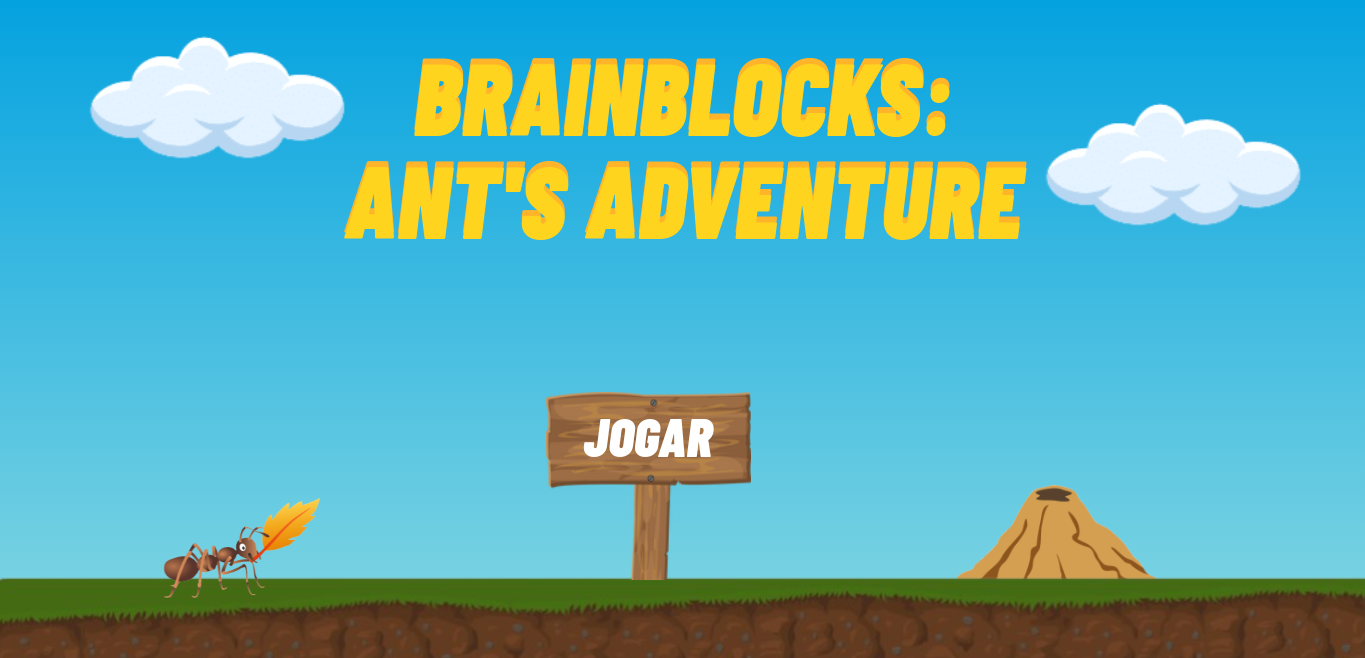
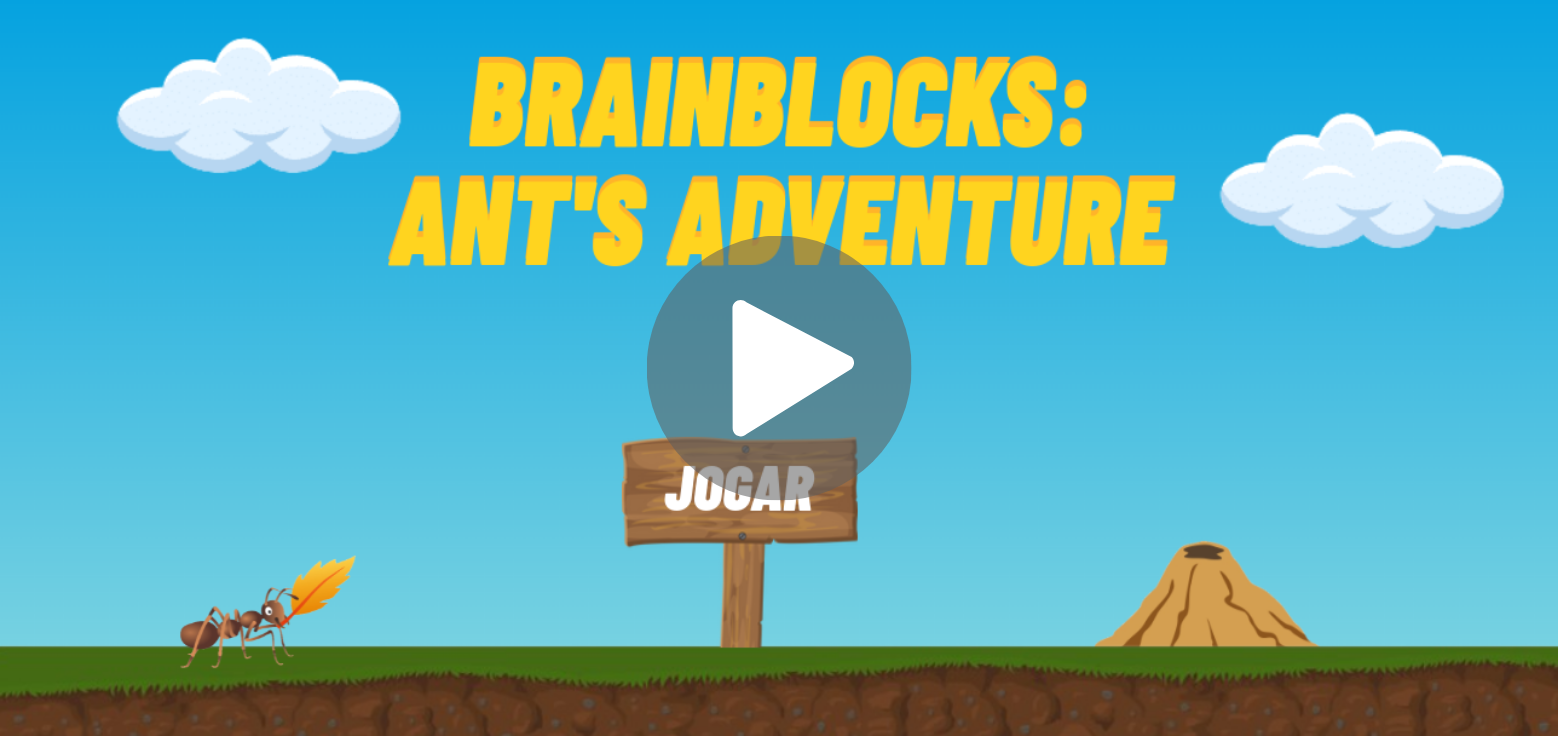
refactor: vídeo de demonstração para o navegador

diff --git a/README.md b/README.md
@@ -4,7 +4,7 @@
 
 Este projeto foi apresentado na 12ª edição do Campus Mobile, e consiste em um jogo educativo projetado para ensinar conceitos de lógica computacional por meio de programação em blocos, alinhando-se às competências do eixo de Pensamento Computacional no Complemento à BNCC. Os usuários são desafiados a auxiliar uma formiga a alcançar o formigueiro, construindo o caminho através de blocos de programação que incluem comandos como início, fim, avançar, coletar, virar à direita, além de instruções condicionais e de repetição para fases mais avançadas. Cada fase apresenta desafios específicos, como a coleta máxima de folhas ou a passagem pelo número mínimo de blocos. Esses desafios são contextualizados, proporcionando motivação ao usuário, como a formiga estar perdida ou procurando alimento. 
 
-[![Assista ao vídeo de demonstração](images/inicio.png)](images/video.mp4)
+[![Assista ao vídeo de demonstração](images/inicio.png)](https://drive.google.com/file/d/12sCaTmmA9gxjiuKzDYsw1SyURCtZ09Sf/view?usp=sharing)
 
 ## Inovação
 
